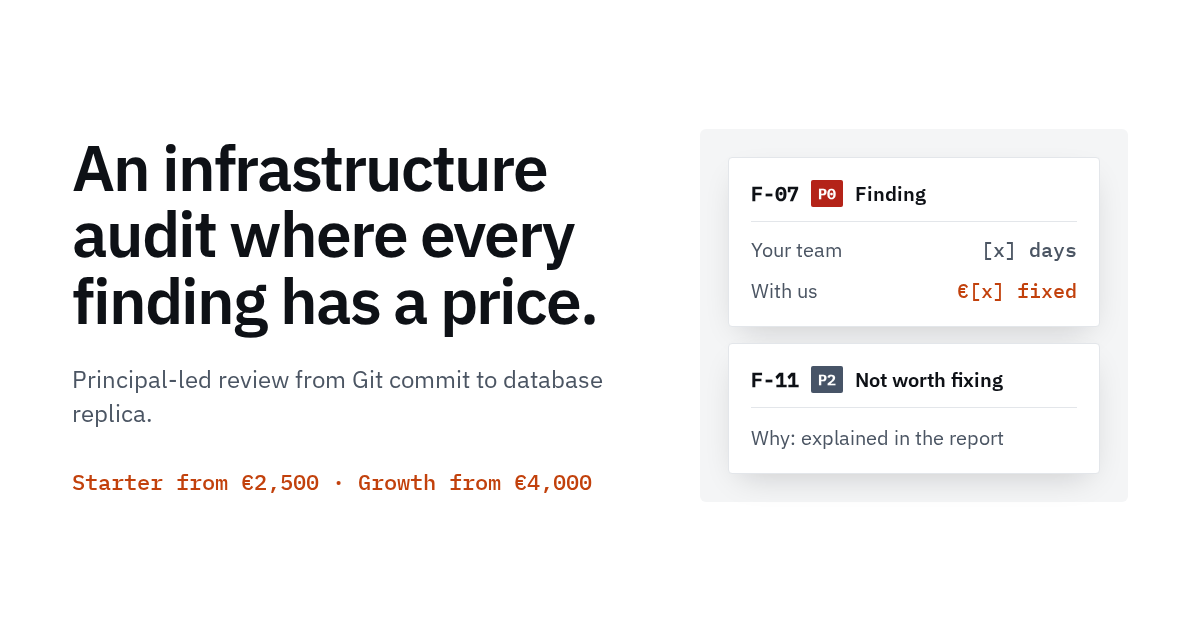
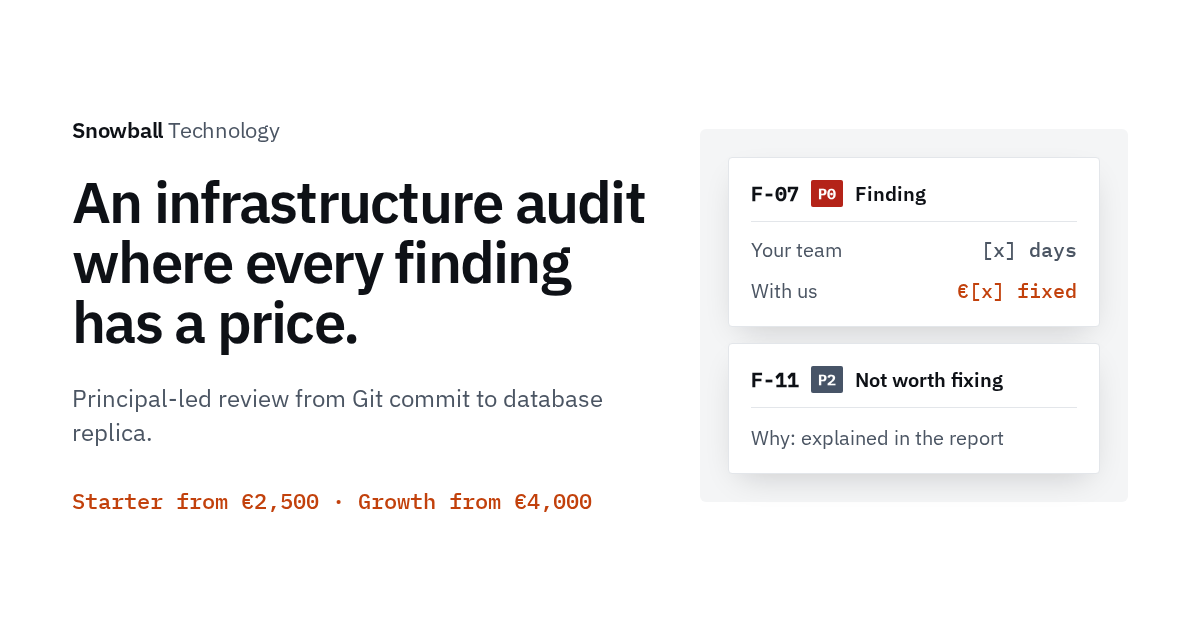
Sync from infra-audit-landing@377aca9

Changed region(s): [[0.0617, 0.181, 0.555, 0.7238], [0.0617, 0.754, 0.4933, 0.8143]]

diff --git a/index.html b/index.html
@@ -3,7 +3,7 @@
 <head>
   <meta charset="UTF-8">
   <meta name="viewport" content="width=device-width, initial-scale=1">
-  <title>[NAME] · Principal-led infrastructure audit, every fix priced</title>
+  <title>Snowball Technology · Principal-led infrastructure audit, every fix priced</title>
   <meta name="description" content="Kubernetes, GitOps, Terraform and database DR audit by a Principal engineer. Fixed price, fixed date, a price on every finding.">
   <!-- Canonical/OG URLs point to the GitHub Pages URL. Change all https://oyevchenko.github.io/infra-audit-site/ occurrences when the real domain exists. -->
   <link rel="canonical" href="https://oyevchenko.github.io/infra-audit-site/">
@@ -12,15 +12,16 @@
   <link rel="icon" href="favicon-32.png" sizes="32x32" type="image/png">
   <link rel="apple-touch-icon" href="apple-touch-icon.png">
   <meta property="og:type" content="website">
+  <meta property="og:site_name" content="Snowball Technology">
   <meta property="og:url" content="https://oyevchenko.github.io/infra-audit-site/">
-  <meta property="og:title" content="Principal-led infrastructure audit, every fix priced">
+  <meta property="og:title" content="Snowball Technology · Principal-led infrastructure audit, every fix priced">
   <meta property="og:description" content="Kubernetes, GitOps, Terraform and database DR audit by a Principal engineer. Fixed price, fixed date, a price on every finding.">
   <meta property="og:image" content="https://oyevchenko.github.io/infra-audit-site/og-image.png">
   <meta property="og:image:width" content="1200">
   <meta property="og:image:height" content="630">
   <meta property="og:image:alt" content="An infrastructure audit where every finding has a price.">
   <meta name="twitter:card" content="summary_large_image">
-  <meta name="twitter:title" content="Principal-led infrastructure audit, every fix priced">
+  <meta name="twitter:title" content="Snowball Technology · Principal-led infrastructure audit, every fix priced">
   <meta name="twitter:description" content="Kubernetes, GitOps, Terraform and database DR audit by a Principal engineer. Fixed price, fixed date, a price on every finding.">
   <meta name="twitter:image" content="https://oyevchenko.github.io/infra-audit-site/og-image.png">
   <link rel="preload" href="fonts/ibm-plex-sans-400.woff2" as="font" type="font/woff2" crossorigin>
@@ -32,7 +33,7 @@
 
   <header class="site-header">
     <div class="wrap header-inner">
-      <a href="#top" class="wordmark"><span data-name>[NAME]</span></a>
+      <a href="#top" class="wordmark" aria-label="Snowball Technology, home"><span class="wm-a">Snowball</span> <span class="wm-b">Technology</span></a>
       <nav class="site-nav" aria-label="Primary">
         <a href="#report">Report</a>
         <a href="#scope">Scope</a>
@@ -326,7 +327,7 @@
           <details><summary>What happens on the 20-minute call?</summary><p>You walk us through your setup and what made you get in touch. Volodymyr asks the technical questions. We tell you which tier fits, or that you don't need an audit, and send a fixed quote in writing after the call. There's no pitch deck.</p></details>
           <details><summary>What access do you need?</summary><p>Read-only, time-boxed access to the clusters, repositories and cloud accounts in scope. Credentials are revoked when we finish.</p></details>
           <details><summary>Do you work with Argo CD?</summary><p>Yes. We're Flux-first, and we audit Argo CD setups too.</p></details>
-          <details><summary>Who are you?</summary><p><span data-name>[NAME]</span> OÜ, a company registered in Estonia. Our engineering team is Ukrainian.</p></details>
+          <details><summary>Who are you?</summary><p><span data-name>Snowball Technology</span> OÜ, a company registered in Estonia. Our engineering team is Ukrainian.</p></details>
           <details><summary>Will the Principal engineer be on the call?</summary><p>Yes. Volodymyr joins the 20-minute call.</p></details>
           <details><summary>What if we only want the report?</summary><p>That's fine. The report is written so your team can act on it alone.</p></details>
         </div>
@@ -346,7 +347,7 @@
         <div class="company">
           <p class="company-title">EU company</p>
           <dl>
-            <div><dt>Legal entity</dt><dd><span data-name>[NAME]</span> OÜ, Estonia</dd></div>
+            <div><dt>Legal entity</dt><dd><span data-name>Snowball Technology</span> OÜ, Estonia</dd></div>
             <div><dt>Registry code</dt><dd class="tbd">[Registry code]</dd></div>
             <div><dt>Address</dt><dd class="tbd">[Address], Estonia</dd></div>
             <div><dt>Email</dt><dd class="tbd">[Email]</dd></div>
@@ -359,7 +360,7 @@
 
   <footer class="site-footer">
     <div class="wrap footer-inner">
-      <span><span data-name>[NAME]</span> OÜ</span>
+      <span><span data-name>Snowball Technology</span> OÜ</span>
       <nav aria-label="Legal">
         <a href="#" data-placeholder="imprint">Imprint</a>
         <a href="#" data-placeholder="privacy">Privacy</a>

diff --git a/styles.css b/styles.css
@@ -82,7 +82,9 @@ a { color: inherit; text-underline-offset: 0.2em; text-decoration-thickness: 1px
 /* header */
 .site-header { position: sticky; top: 0; z-index: 100; background: rgba(255,255,255,.96); border-bottom: 1px solid var(--line); }
 .header-inner { display: flex; align-items: center; justify-content: space-between; gap: 2rem; height: 64px; }
-.wordmark { font: 500 1.0625rem var(--mono); text-decoration: none; }
+.wordmark { display: inline-flex; align-items: baseline; gap: .3em; font-family: var(--sans); font-size: 1.1875rem; letter-spacing: -0.015em; text-decoration: none; white-space: nowrap; }
+.wm-a { font-weight: 600; }
+.wm-b { font-weight: 400; color: var(--muted); }
 .site-nav { display: flex; gap: 2rem; font-size: .9375rem; }
 .site-nav a { text-decoration: none; color: var(--muted); }
 .site-nav a:hover { color: var(--text); }
